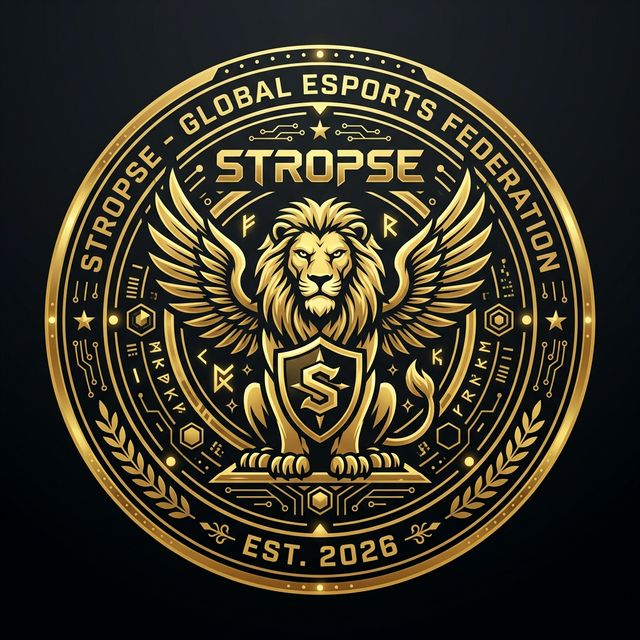
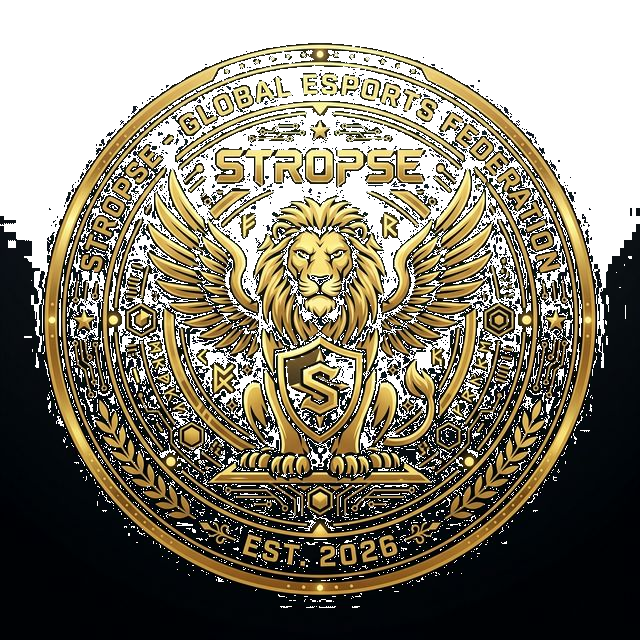
Programmatically strip dark bg from seal PNG via Python/Pillow — true alpha transparency, remove all blend-mode hacks

diff --git a/src/components/PlayerCard.jsx b/src/components/PlayerCard.jsx
@@ -134,7 +134,7 @@ export function PlayerCard({ profile }) {
             {profile.status === 'verified' ? (
               <>
                 <div style={{ width: '48px', height: '48px' }}>
-                  <img src="/stropse-seal.png" alt="Seal" style={{ width: '100%', height: '100%', objectFit: 'contain', mixBlendMode: 'screen' }} />
+                  <img src="/stropse-seal.png" alt="Seal" style={{ width: '100%', height: '100%', objectFit: 'contain' }} />
                 </div>
                 <div className="pc-verified-text">VERIFIED BY STROPSE</div>
               </>
@@ -189,8 +189,8 @@ export function PlayerCard({ profile }) {
 export function PlayerCardBack() {
   return (
     <div className="player-card pc-back">
-      <div className="pc-watermark" style={{ opacity: 0.2, mixBlendMode: 'screen', position: 'absolute', top: 0, left: 0, width: '100%', height: '100%', display: 'flex', alignItems: 'center', justifyContent: 'center' }}>
-        <img src="/stropse-seal.png" alt="STROPSE" style={{ width: '120%', filter: 'drop-shadow(0 0 100px rgba(255,215,0,0.5))', mixBlendMode: 'screen' }} />
+      <div className="pc-watermark" style={{ opacity: 0.15, position: 'absolute', top: 0, left: 0, width: '100%', height: '100%', display: 'flex', alignItems: 'center', justifyContent: 'center' }}>
+        <img src="/stropse-seal.png" alt="STROPSE" style={{ width: '110%', filter: 'drop-shadow(0 0 40px rgba(255,215,0,0.3))' }} />
       </div>
       <div className="pc-back-stripe" style={{ position: 'relative', zIndex: 2 }}>STROPSE</div>
       <div className="pc-back-footer" style={{ position: 'relative', zIndex: 2 }}>EST. 2026 - COMPETITIVE ESPORTS</div>

diff --git a/src/pages/CardView.jsx b/src/pages/CardView.jsx
@@ -44,7 +44,7 @@ export default function CardView() {
       padding: '40px 20px',
     }}>
       <div style={{ marginBottom: 32, textAlign: 'center' }}>
-        <img src="/stropse-seal.png" alt="STROPSE" style={{ width: 80, height: 80, objectFit: 'contain', display: 'block', mixBlendMode: 'screen', margin: '0 auto 12px' }} />
+        <img src="/stropse-seal.png" alt="STROPSE" style={{ width: 80, height: 80, objectFit: 'contain', display: 'block', margin: '0 auto 12px', filter: 'drop-shadow(0 0 8px rgba(255,215,0,0.4))' }} />
         <div style={{ fontFamily: 'Orbitron, sans-serif', fontSize: 22, fontWeight: 900, letterSpacing: 4, color: '#FFD700' }}>STROPSE</div>
         <div style={{ fontFamily: 'Rajdhani, sans-serif', fontSize: 12, color: '#666', letterSpacing: 2 }}>GLOBAL ESPORTS FEDERATION</div>
       </div>

diff --git a/src/pages/Home.jsx b/src/pages/Home.jsx
@@ -128,7 +128,7 @@ export default function Home() {
             </div>
             <div className="cta-decoration">
               <div style={{ width: 220, height: 220, flexShrink: 0 }}>
-                <img src="/stropse-seal.png" alt="STROPSE Seal" style={{ width: '100%', height: '100%', objectFit: 'contain', display: 'block', mixBlendMode: 'screen' }} />
+                <img src="/stropse-seal.png" alt="STROPSE Seal" style={{ width: '100%', height: '100%', objectFit: 'contain', display: 'block', filter: 'drop-shadow(0 0 24px rgba(255,215,0,0.3))' }} />
               </div>
             </div>
           </div>

diff --git a/src/components/Navbar.jsx b/src/components/Navbar.jsx
@@ -38,7 +38,7 @@ export default function Navbar() {
             <img
               src="/stropse-seal.png"
               alt="STROPSE"
-              style={{ width: '100%', height: '100%', objectFit: 'contain', display: 'block', mixBlendMode: 'screen' }}
+              style={{ width: '100%', height: '100%', objectFit: 'contain', display: 'block', filter: 'drop-shadow(0 0 4px rgba(255,215,0,0.5))' }}
             />
           </div>
           <span className="logo-text">
